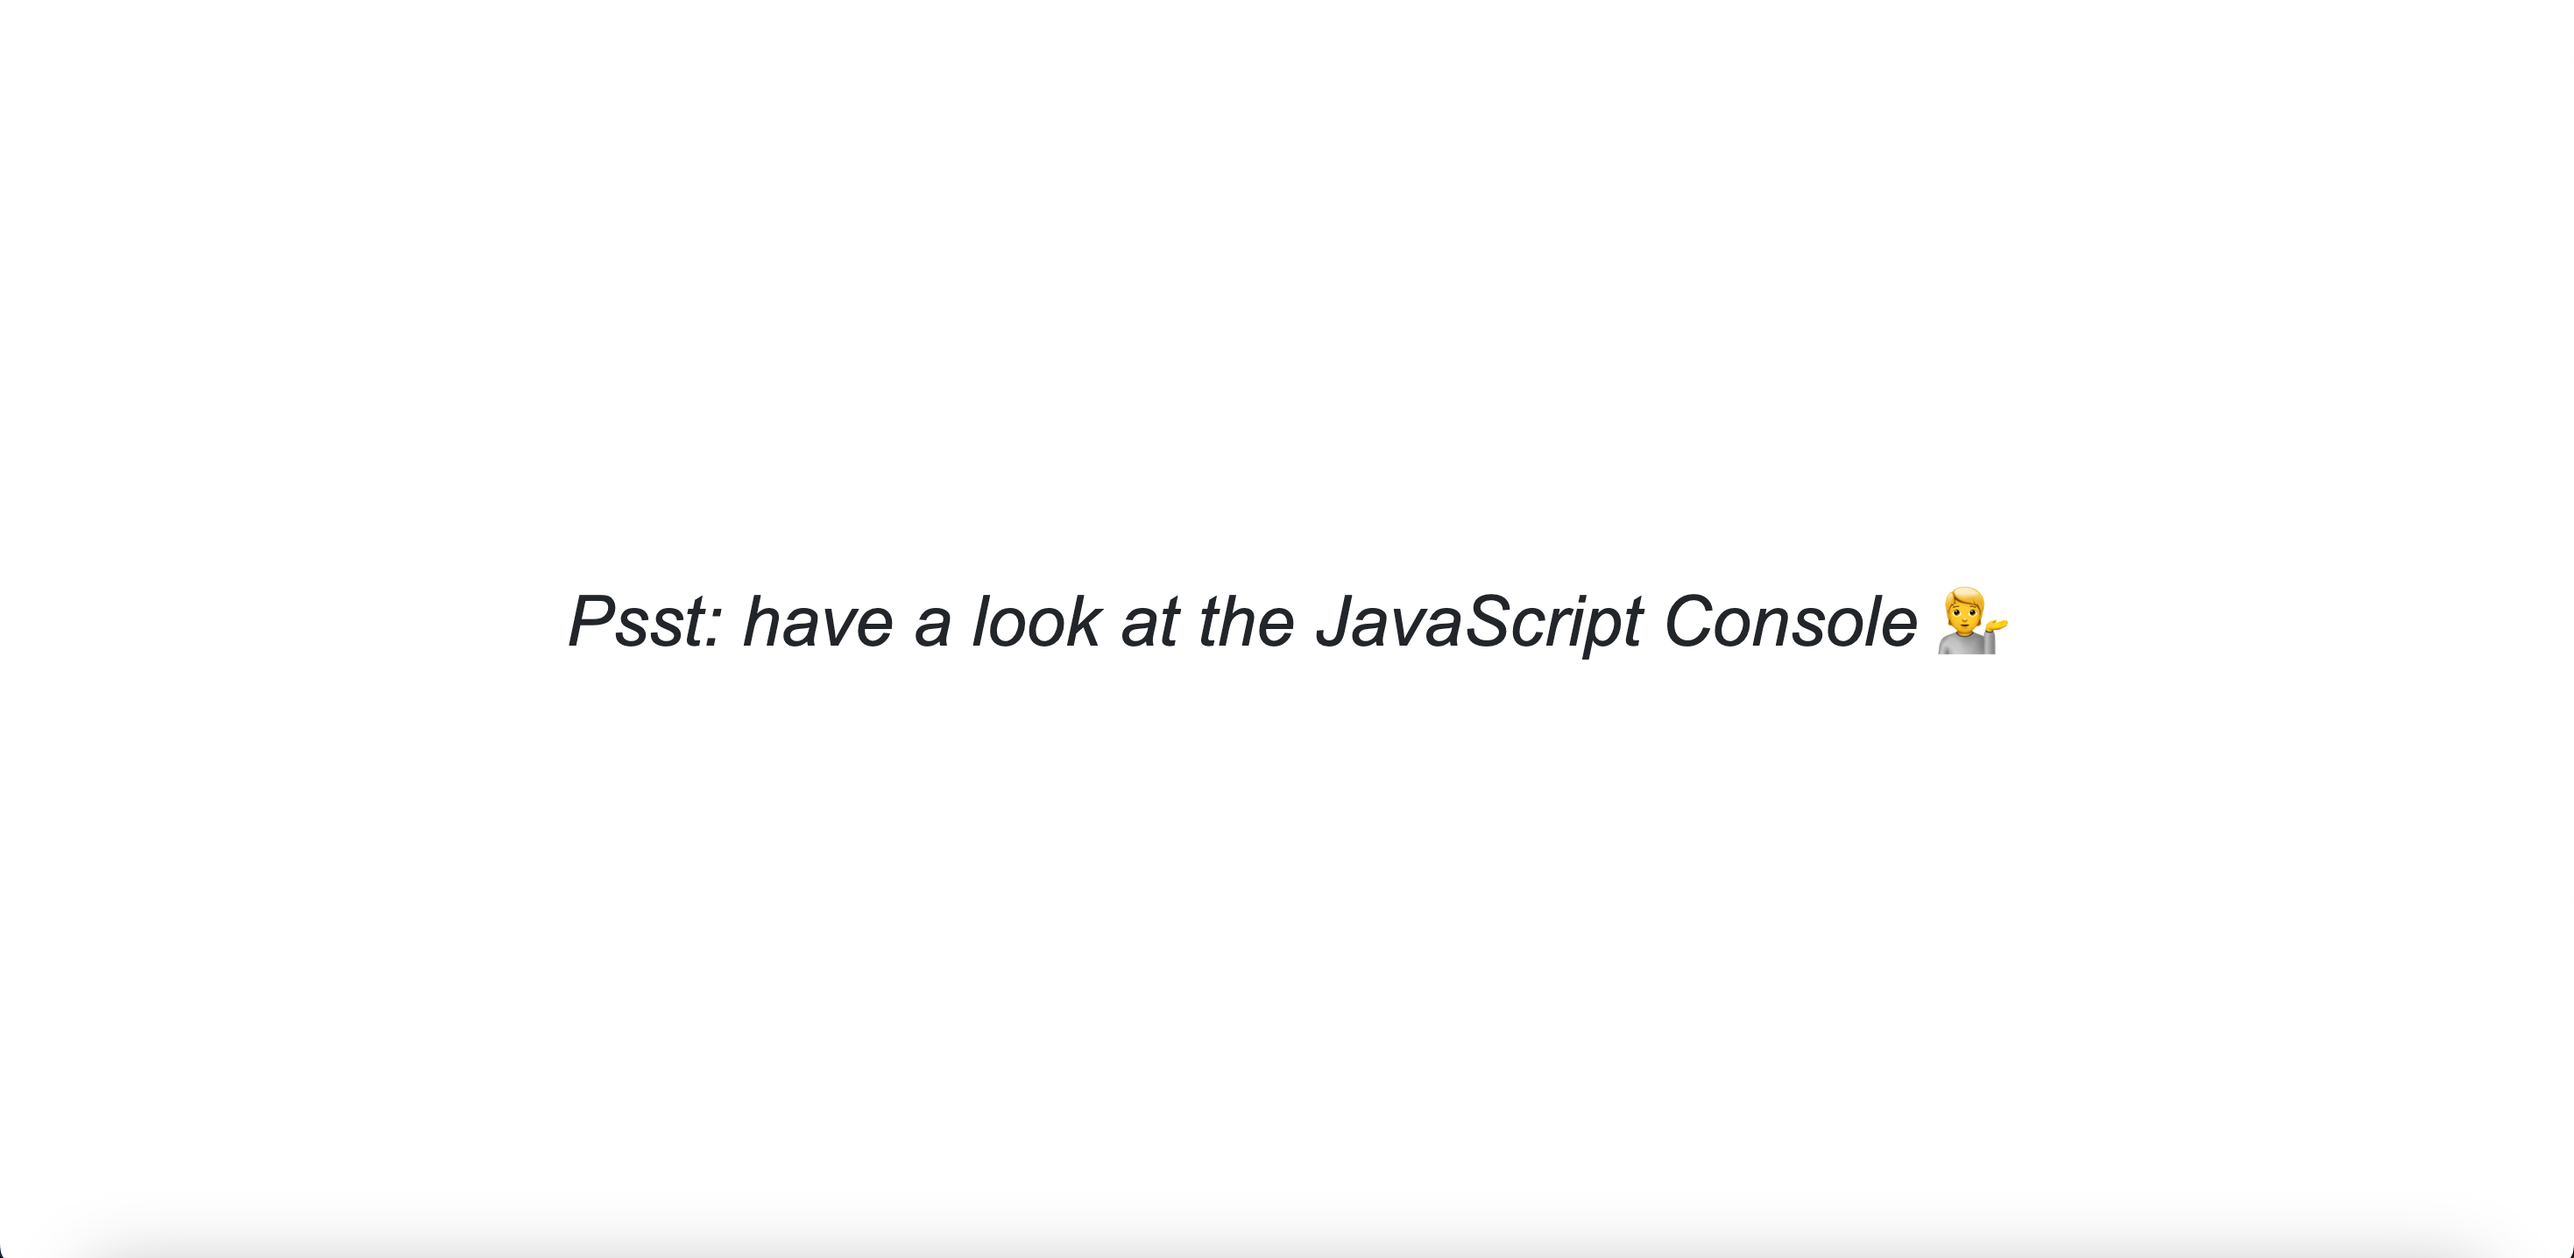
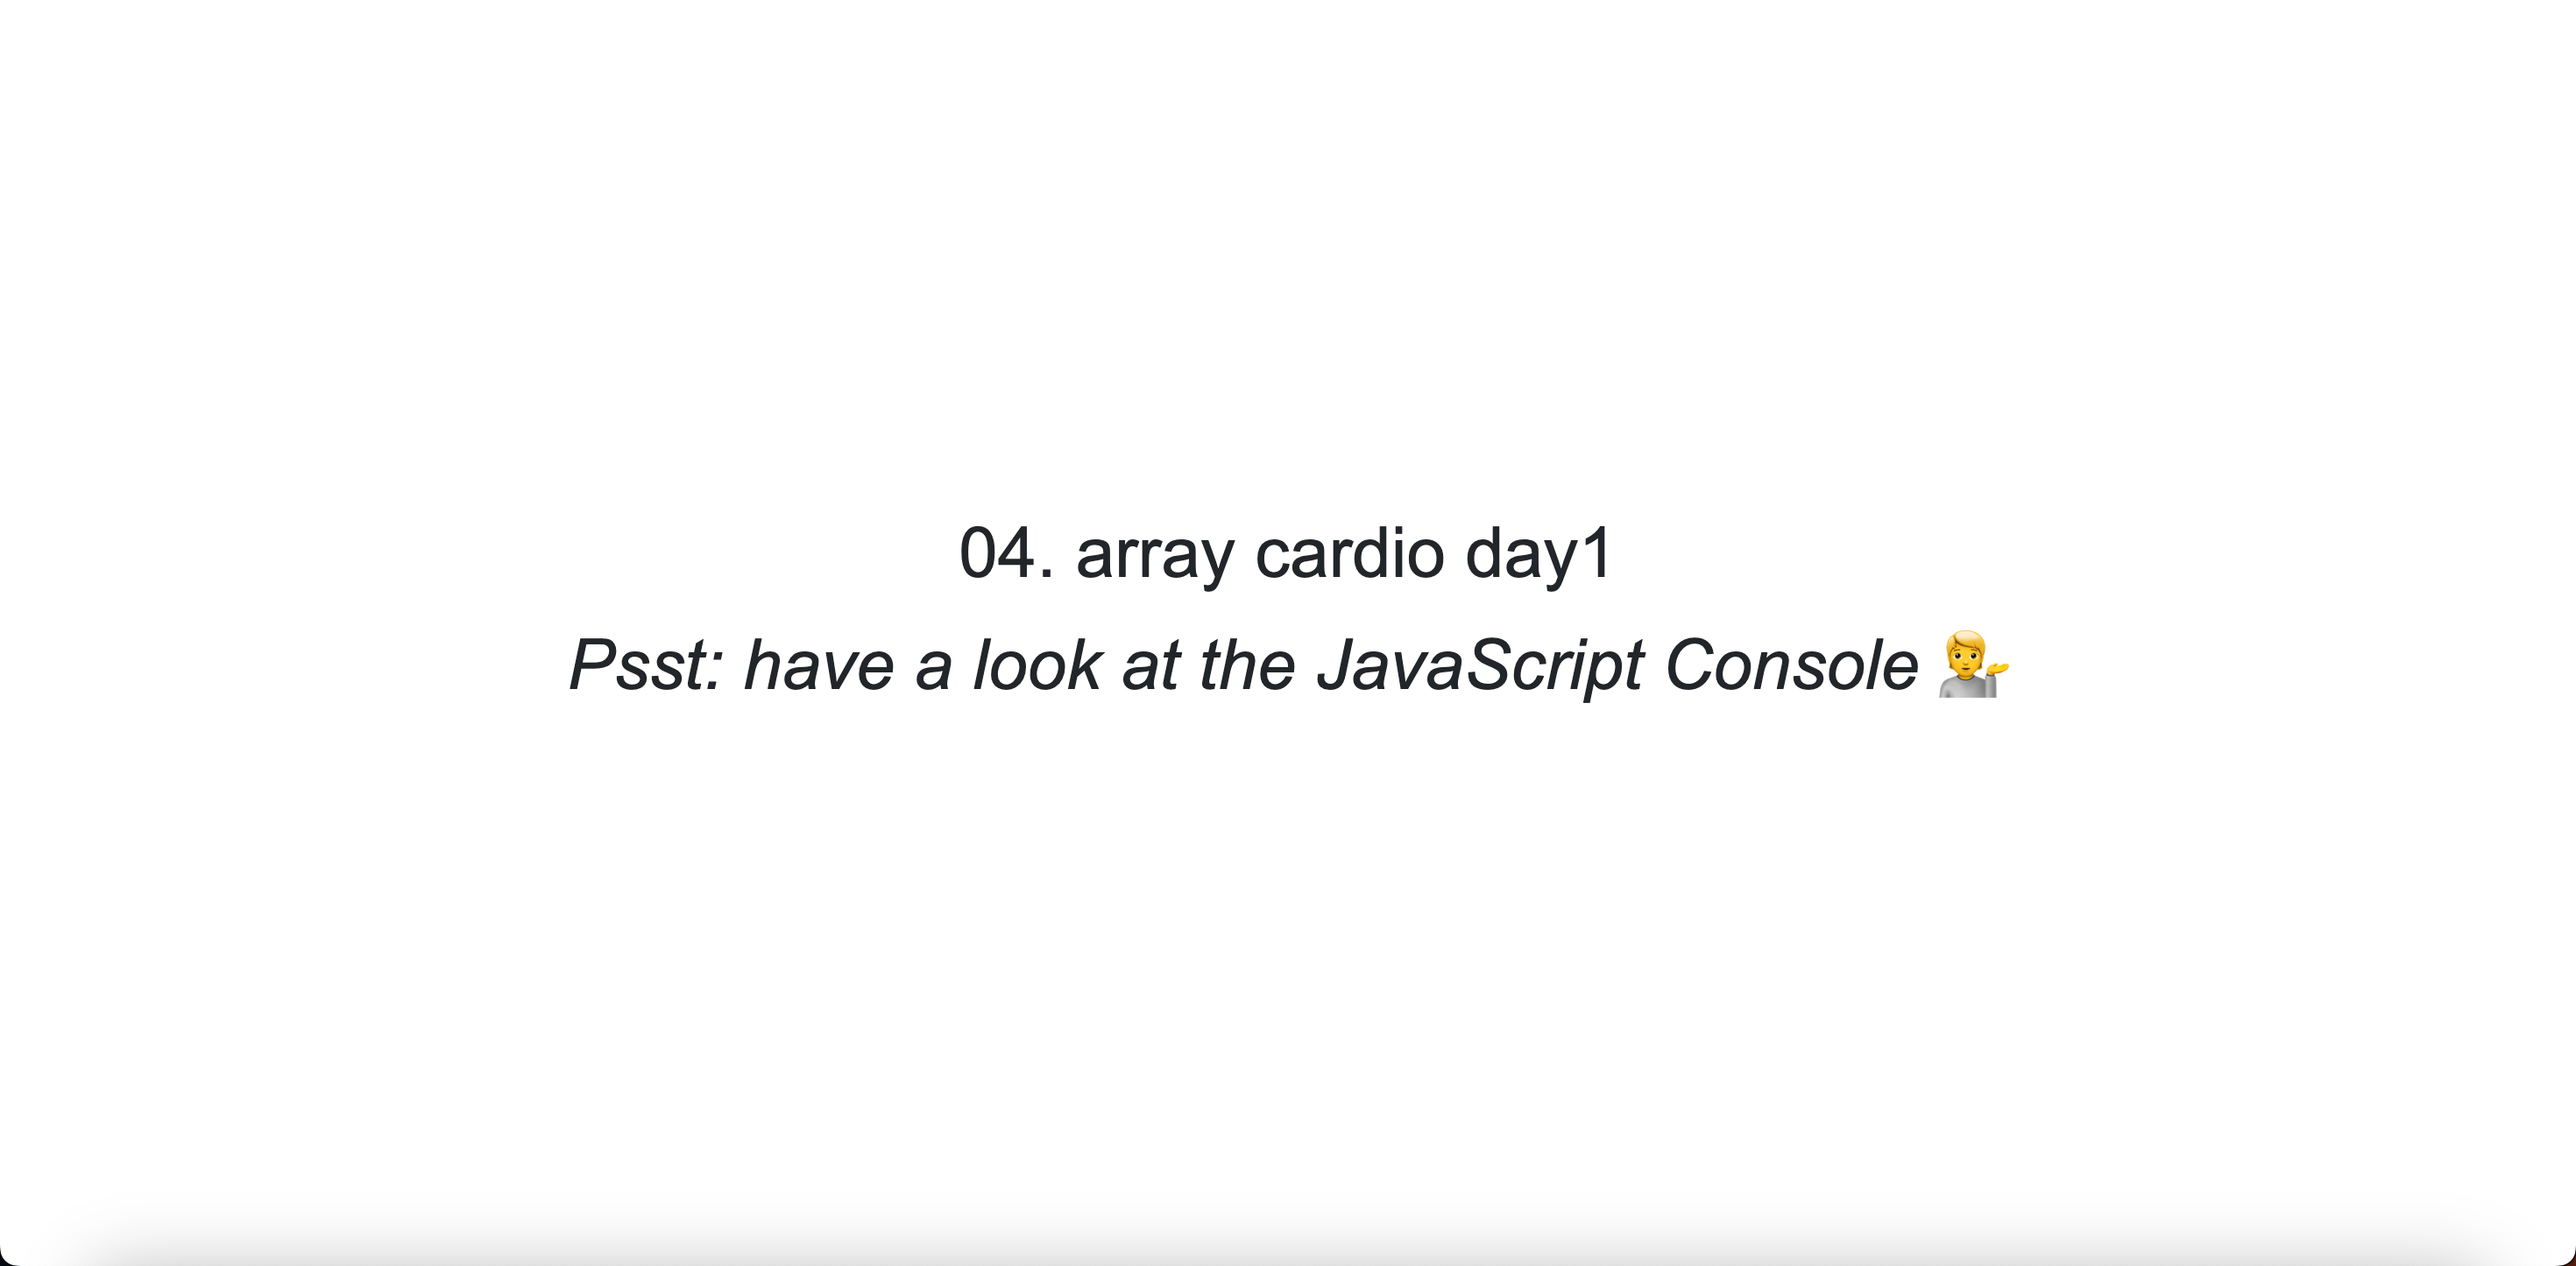
feat: modify index.js and style.css and add img

Changed region(s): [[0.2168, 0.3983, 0.7743, 0.5515], [0.9912, 0.9805, 1.0, 1.0]]

diff --git a/04-Array-Cardio-Day1/index.html b/04-Array-Cardio-Day1/index.html
@@ -14,7 +14,8 @@
 <body>
   <head>
     <h1>
-      <em>Psst: have a look at the JavaScript Console</em> 💁
+      <p>04. array cardio day1</p>
+      <p></p><em>Psst: have a look at the JavaScript Console</em> 💁</p>
     </h1>
   </head>
 

diff --git a/04-Array-Cardio-Day1/style.css b/04-Array-Cardio-Day1/style.css
@@ -16,12 +16,10 @@ body {
 }
 
 body,
-head,
-.h1 {
+head {
     display: flex;
     justify-content: center;
     align-items: center;
     align-content: center;
     text-align: center;
-    align-content: center;
 }
